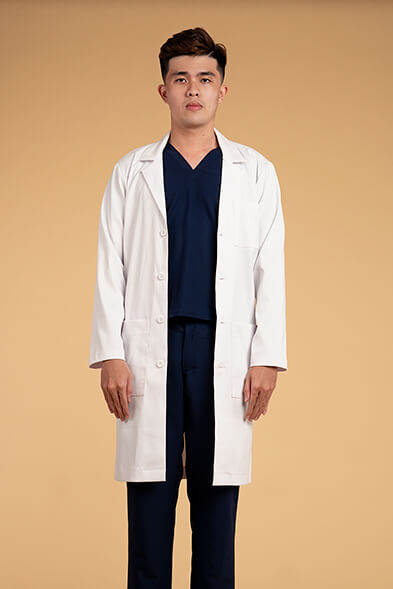
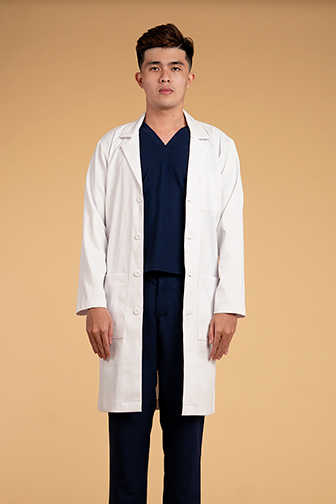
update images a bit

diff --git a/index.html b/index.html
@@ -91,7 +91,7 @@
 	<div class="advertisement-slider owl-carousel">
 		<div
 				class="advertisement-slider-item adv-bg-set"
-				data-setbg="img/slider/DEMO-02_ngang.jpg"
+				data-setbg="img/slider/DEMO-03_1.jpg"
 				data-hash="slide-1">
 
 			<div class="container">
@@ -102,14 +102,14 @@
 					<!-- <i class="fa fa-angle-double-right"></i> -->
 				</a>
 			</div>
-			<div class="next-hs adv-bg-set" data-setbg="img/slider/DEMO-02_doc.jpg">
+			<div class="next-hs adv-bg-set" data-setbg="img/slider/DEMO-03_1.jpg">
 				<a href="#slide-2" class="advertisement-site-btn">Tiếp theo</a>
 			</div>
 		</div>
 
 		<div
 				class="advertisement-slider-item adv-bg-set"
-				data-setbg="img/slider/DEMO-02_ngang.jpg"
+				data-setbg="img/slider/DEMO-03_2.jpg"
 				data-hash="slide-2">
 
 			<div class="container">
@@ -120,14 +120,14 @@
 					<!-- <i class="fa fa-angle-double-right"></i> -->
 				</a>
 			</div>
-			<div class="next-hs adv-bg-set" data-setbg="img/slider/DEMO-02_doc.jpg">
+			<div class="next-hs adv-bg-set" data-setbg="img/slider/DEMO-03_2.jpg">
 				<a href="#slide-3" class="advertisement-site-btn">Tiếp theo</a>
 			</div>
 		</div>
 
 		<div
 				class="advertisement-slider-item adv-bg-set"
-				data-setbg="img/slider/DEMO-02_ngang.jpg"
+				data-setbg="img/slider/DEMO-03_3.jpg"
 				data-hash="slide-3">
 
 			<div class="container">
@@ -138,7 +138,7 @@
 					<!-- <i class="fa fa-angle-double-right"></i> -->
 				</a>
 			</div>
-			<div class="next-hs adv-bg-set" data-setbg="img/slider/DEMO-02_doc.jpg">
+			<div class="next-hs adv-bg-set" data-setbg="img/slider/DEMO-03_3.jpg">
 				<a href="#slide-1" class="advertisement-site-btn">Tiếp theo</a>
 			</div>
 		</div>
@@ -209,7 +209,7 @@
 </div>
 
 <!-- Clients Said -->
-<section class="pb-5 ftco-section testimony-section img" style="background-image: url(img/client-said-bg-img-01.jpg);">
+<section class="pb-5 ftco-section testimony-section img" style="background-image: url(img/client-said-bg-img-02.jpg);">
 	<div class="overlay"></div>
 	<div class="container">
 		<div class="row justify-content-center">

diff --git a/history/css/main.css b/history/css/main.css
@@ -20,13 +20,13 @@ h1, h2, h3, h4, h5 {
       .container .section .fp-tableCell {
         padding: 20px 20px 15px 20px; } }
   .container .section:nth-child(1) {
-    background: url("../../img/client-said-bg-img-01.jpg");
+    background: url("../img/bg_1.jpg");
     background-size: cover; }
   .container .section:nth-child(2) {
-    background: url("../../img/background-img.jpg");
+    background: url("../img/bg_2.jpg");
     background-size: cover; }
   .container .section:nth-child(3) {
-    background: url("../../img/slider/violet-scrub-02_3_ngang.jpg");
+    background: url("../img/bg_3.jpg");
     background-size: cover; }
   .container .section:nth-child(4) {
     background: url("../img/bg_4.jpg");

diff --git a/js/data.js b/js/data.js
@@ -1,9 +1,9 @@
 // Start Main page Data
 const bestSellerData01 = {
-    name: 'General Women Labcoat',
+    name: 'General Men Labcoat',
     price: '850.000 VND',
     category: '',
-    link: 'product-detail.html?product=nu-blouse-01',
+    link: 'product-detail.html?product=nam-blouse-01',
     desc: 'The KIM premium stretch slim fit labcoats are tailored for comfort and style, with an ergonomic fit that is slimming and flattering. Designed for optimal range of motion, each sophisticated lab coat offers a precise fit that never restricts movement or luxurious.',
     src: 'img/homepage/best-seller-01.jpg',
 }
